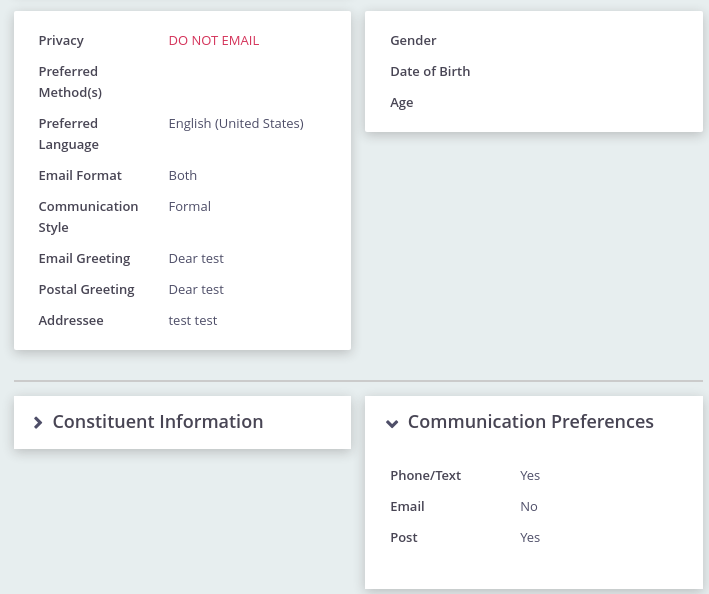
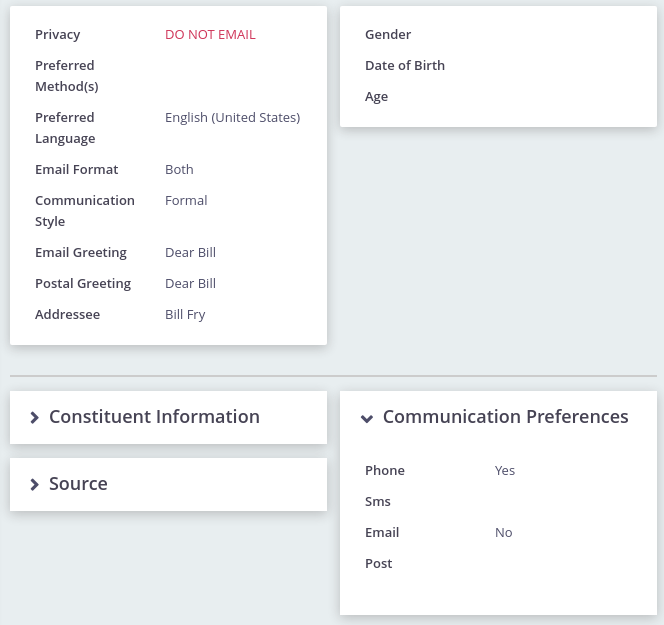
Add optional 'SMS' opt-in field (enabled by default)

diff --git a/optinfields.php b/optinfields.php
@@ -135,15 +135,28 @@ function optinfields_civicrm_entityTypes(&$entityTypes) {
 }
 
 function optinfields_civicrm_custom($op, $groupID, $entityID, &$params) {
-  $custom_group = civicrm_api3('CustomGroup', 'getsingle', array('id' => $groupID));
-  if ($custom_group['extends'] !== 'Contact') {
+  $customGroup = civicrm_api3('CustomGroup', 'getsingle', array('id' => $groupID));
+  if (($customGroup['name'] !== 'Communication_Preferences') || ($customGroup['extends'] !== 'Contact')) {
     return;
   }
+  // Get a list of custom fields for the group
+  $customFields = civicrm_api3('CustomField', 'get', array('custom_group_id' => $groupID));
+  // Get a list of field column names and set value to "is_active" status
+  // We use this to check the SMS/Phone is a separate permission or not
+  foreach ($customFields['values'] as $customField) {
+    $fieldsByColumnName[$customField['column_name']] = $customField['is_active'];
+  }
+  // Get full details for the contact record
   $contact = civicrm_api3('Contact', 'getsingle', array('id' => $entityID));
 
   $changed = FALSE;
   foreach($params as $field) {
     if (!empty($field['custom_field_id'])) {
+      if (!in_array($field['column_name'], array_keys($fieldsByColumnName))) {
+        // Only interested in our optinfields.
+        return;
+      }
+      // Column names are in format phone_XX - we map the first part to the respective privacy option on the contact record
       $endOfName = strpos($field['column_name'], '_');
       if ($endOfName !== FALSE) {
         $privacyOption = substr($field['column_name'], 0, $endOfName);
@@ -152,12 +165,16 @@ function optinfields_civicrm_custom($op, $groupID, $entityID, &$params) {
         }
         $newValue = empty($field['value']) ? '1' : '0';
         if ($privacyOption == 'phone') {
-          // Special case to handle sms (as we're treating it as the same "phone" permission
-          if ($contact['do_not_sms'] !== $newValue) {
-            $contact['do_not_sms'] = $newValue;
-            $changed = TRUE;
+          // If the sms custom field is disabled, we set the sms privacy option to mirror the phone privacy option.
+          if (!$fieldsByColumnName['sms_43']) {
+            // Special case to handle sms (as we're treating it as the same "phone" permission
+            if ($contact['do_not_sms'] !== $newValue) {
+              $contact['do_not_sms'] = $newValue;
+              $changed = TRUE;
+            }
           }
         }
+        // Only update the contact record if the value has actually changed.
         if ($contact['do_not_'.$privacyOption] !== $newValue) {
           $contact['do_not_' . $privacyOption] = $newValue;
           $changed = TRUE;

diff --git a/README.md b/README.md
@@ -2,15 +2,19 @@
 
 ![Screenshot](/images/contact_summary_communication_prefs.png)
 
-This extension adds a set of 3 "Yes/No" fields to the contact summary which can be used in public facing forms to 
-allow contacts to explicitly opt-in/opt-out of different communication methods (Phone/Text, Email, Post).
+This extension adds a set of 4 "Yes/No" fields to the contact summary which can be used in public facing forms to 
+allow contacts to explicitly opt-in/opt-out of different communication methods (Phone, Email, Post, SMS).
 
 Exposing the "Do not Email"/"Do not Post" fields directly is not desirable by many organisations and does not make 
-it easy for them to comply with GDPR requirements.
+it easy for them to comply with GDPR requirements as they need to offer "Opt-in" fields rather than "Opt-out".
 
 The appropriate "Do not" fields are automatically updated whenever the new fields are changed (but not the other way round).
 
 The extension is licensed under [AGPL-3.0](LICENSE.txt).
+
+## Configuration
+### Phone/SMS - separate or linked option?
+If you disable the "SMS" custom field via the custom fields UI, the "Phone" Yes/No field will automatically update the "Do not SMS" field as well.
 
 ## Requirements
 
